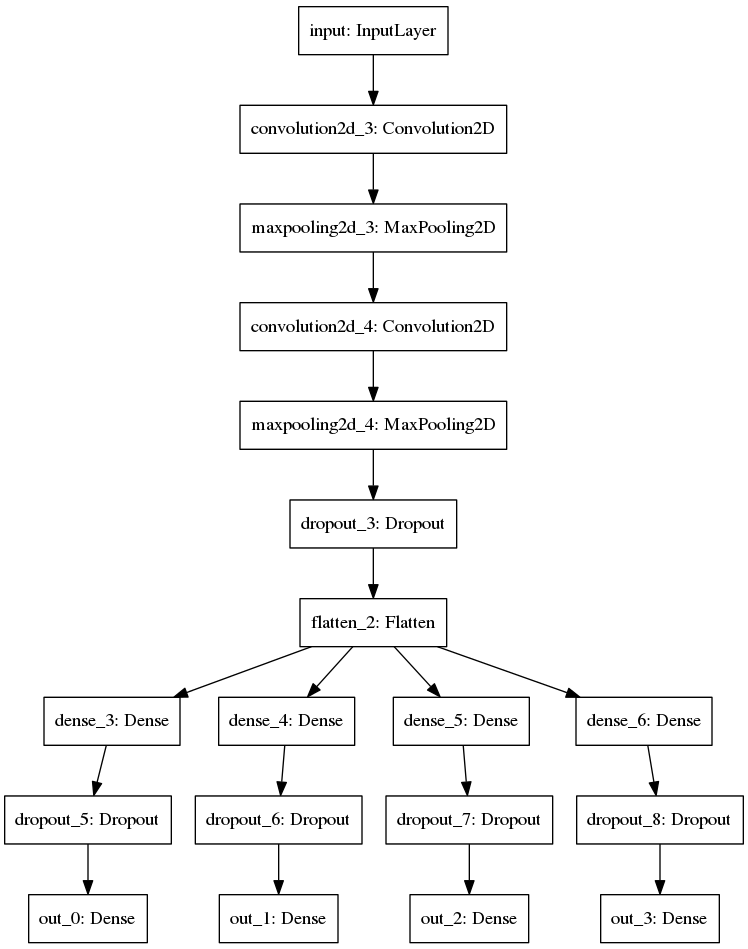
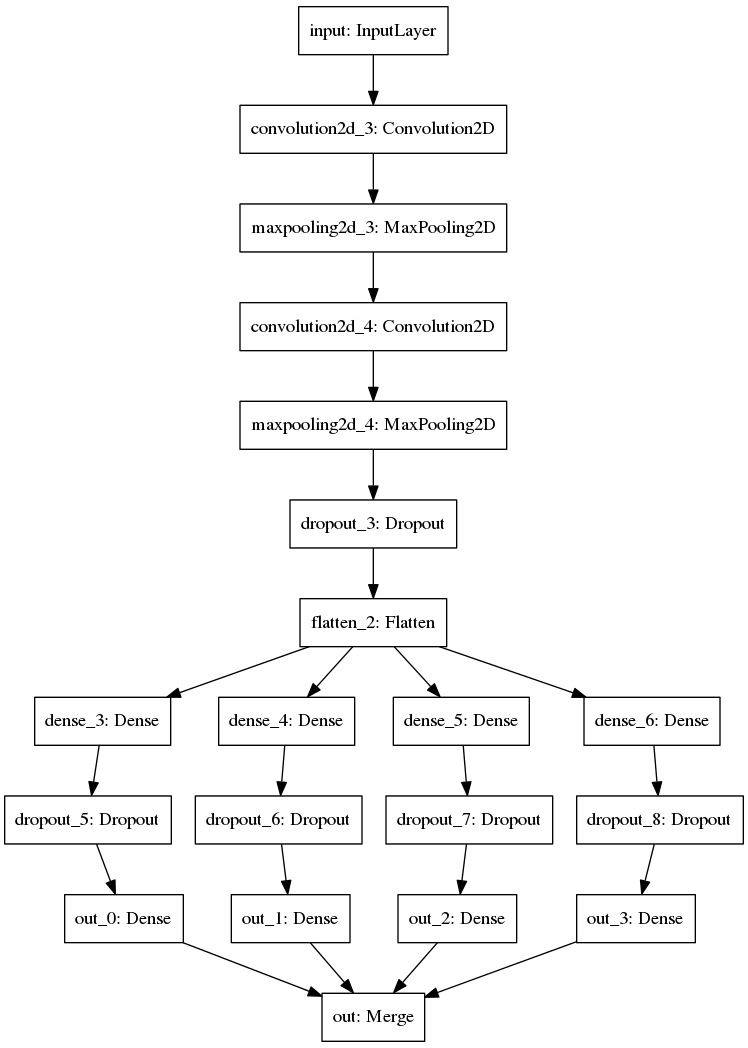
Archive failed attempts on using Merge layer

diff --git a/dl/train_captcha.py b/dl/train_captcha.py
@@ -18,7 +18,7 @@ from keras.utils.visualize_util import plot
 from captcha.image import ImageCaptcha,WheezyCaptcha
 
 FONTS = glob.glob('/usr/share/fonts/truetype/dejavu/*.ttf')
-SAMPLE_SIZE = 1000
+SAMPLE_SIZE = 10
 SHOW_SAMPLE_SIZE = 5
 INVALID_DIGIT = -1
 DIGIT_COUNT = 4
@@ -33,7 +33,7 @@ IMAGE_STD_HEIGHT = 200
 CONV1_NB_FILTERS = IMAGE_STD_HEIGHT / 2 + 2
 CONV2_NB_FILTERS = IMAGE_STD_HEIGHT + 2 * 2
 
-def generate_image_sets():
+def generate_image_sets_for_single_digit(singl_digit_index=0):
     captcha = ImageCaptcha()
 
     # print DIGIT_FORMAT_STR
@@ -68,11 +68,53 @@ def generate_image_sets():
         for digit_index in range(0, DIGIT_COUNT):
             digit_labels[digit_index][index] = labels[index][digit_index]
 
-    X, Y_all = digit_image_data, digit_labels[0]
-    X_train, X_test, y_train_num, y_test = train_test_split(X, Y_all, test_size=0.1, random_state=0)
-    y_train = np_utils.to_categorical(y_train_num, CLASS_COUNT)
+    X, Y_all = digit_image_data, digit_labels[singl_digit_index]
+    x_train, x_test, y_train_as_num, y_test = train_test_split(X, Y_all, test_size=0.1, random_state=0)
+    y_train = np_utils.to_categorical(y_train_as_num, CLASS_COUNT)
 
-    return (X_train, y_train, X_test, y_test)
+    return (x_train, y_train, x_test, y_test)
+
+def generate_image_sets_for_multi_digits():
+    captcha = ImageCaptcha()
+
+    # print DIGIT_FORMAT_STR
+    labels = []
+    images = []
+    for i in range(0, SAMPLE_SIZE):
+        digits = 0
+        last_digit = INVALID_DIGIT
+        for j in range(0, DIGIT_COUNT):
+            digit = last_digit
+            while digit == last_digit:
+                digit = random.randint(0, 9)
+            last_digit = digit
+            digits = digits * 10 + digit
+        digits_as_str = DIGIT_FORMAT_STR % digits
+        labels.append(digits_as_str)
+        images.append(captcha.generate_image(digits_as_str))
+
+    digit_labels = list()
+
+    for digit_index in range(0, DIGIT_COUNT):
+        digit_labels.append(np.empty(SAMPLE_SIZE, dtype="int8"))
+
+    digit_image_data = np.empty((SAMPLE_SIZE, 3, IMAGE_STD_HEIGHT, IMAGE_STD_WIDTH), dtype="float32")
+
+    for index in range(0, SAMPLE_SIZE):
+        img = images[index].resize((IMAGE_STD_WIDTH, IMAGE_STD_HEIGHT), PIL.Image.LANCZOS)
+        # if index < SHOW_SAMPLE_SIZE:
+            # display.display(img)
+        img_arr = np.asarray(img, dtype="float32") / 255.0
+        digit_image_data[index, :, :, :] = np.rollaxis(img_arr, 2)
+        for digit_index in range(0, DIGIT_COUNT):
+            digit_labels[digit_index][index] = labels[index][digit_index]
+
+    X, Y_all = digit_image_data, digit_labels
+    # TODO
+    x_train, x_test, y_train_as_num, y_test = train_test_split(X, Y_all, test_size=0.1, random_state=0)
+    y_train = np_utils.to_categorical(y_train_as_num, CLASS_COUNT)
+
+    return (x_train, y_train, x_test, y_test)
 
 def create_single_digit_model():
     input_layer = Input(name='input', shape=(RGB_COLOR_COUNT, IMAGE_STD_HEIGHT, IMAGE_STD_WIDTH))
@@ -132,15 +174,52 @@ def create_multi_digit_model(model_file, digit_count=DIGIT_COUNT):
         loss[out_name] = 'categorical_crossentropy'
         outputs.append(output)
 
-    model = Model(input=base_model.input, output=outputs)
+    # model = Model(input=base_model.input, output=outputs)
+    # model.compile(
+    #     optimizer='adadelta',
+    #     loss=loss
+    # )
+
+    merged_output = merge(outputs, mode='concat',
+                    concat_axis=0, output_shape=(digit_count, CLASS_COUNT),
+                    name='out') # concat_axis=
+
+    model = Model(input=base_model.input, output=merged_output)
+    model.compile(
+        optimizer='adadelta',
+        loss={
+            'out': 'categorical_crossentropy',
+        }
+    )
+
     return model
 
-def train(model, X_train, y_train, X_test, y_test, index):
+def inspect_merged_predict(multi_digit_model, x, digit_count=DIGIT_COUNT):
+    intermediate_models = []
+    predicts = {}
+    predicts['out'] = multi_digit_model.predict(x)
+
+    for i in range(0, digit_count):
+        out_name = 'out_%0d' % i
+        model = Model(input=multi_digit_model.input,
+                      output=multi_digit_model.get_layer(out_name).output)
+        model.compile(
+            optimizer='adadelta',
+            loss={
+                out_name: 'categorical_crossentropy',
+            }
+        )
+        predicts[out_name] = model.predict(x)
+
+    return predicts
+
+
+def train(model, x_train, y_train, x_test, y_test, index):
     class ValidateAcc(Callback):
         def on_epoch_end(self, epoch, logs={}):
             print '\n————————————————————————————————————'
             # model.load_weights('tmp/weights.%02d.hdf5' % epoch)
-            r = model.predict(X_test, verbose=0)
+            r = model.predict(x_test, verbose=0)
             y_predict = array([argmax(i) for i in r])
             length = len(y_predict) * 1.0
             acc = sum(y_predict == y_test) / length
@@ -156,7 +235,7 @@ def train(model, X_train, y_train, X_test, y_test, index):
         print "Training based on %s" % model_file
         model.load_weights(model_file)
     model.fit(
-        {'input': X_train}, {'out': y_train},
+        {'input': x_train}, {'out': y_train},
         batch_size=128, nb_epoch=3, callbacks=[check_point, back]
     )
     print '... saving'
@@ -181,11 +260,18 @@ plot(model, 'single_digit_model.png')
 model = create_multi_digit_model(base_model_file, digit_count)
 plot(model, '%d_digit_model.png' % digit_count)
 
+x_train, y_train, x_test, y_test = generate_image_sets_for_single_digit()
+p = inspect_merged_predict(model, x_test)
+
+for key in p:
+    print key
+    print p[key]
+
 # model = create_single_digit_model()
 #
 # while index < max:
-#     X_train, y_train, X_test, y_test = generate_image_sets()
-#     train(model, X_train, y_train, X_test, y_test, index)
+#     x_train, y_train, x_test, y_test = generate_image_sets_for_single_digit()
+#     train(model, x_train, y_train, x_test, y_test, index)
 #     index = index + 1
 
 # for index in range(SHOW_SAMPLE_SIZE):
